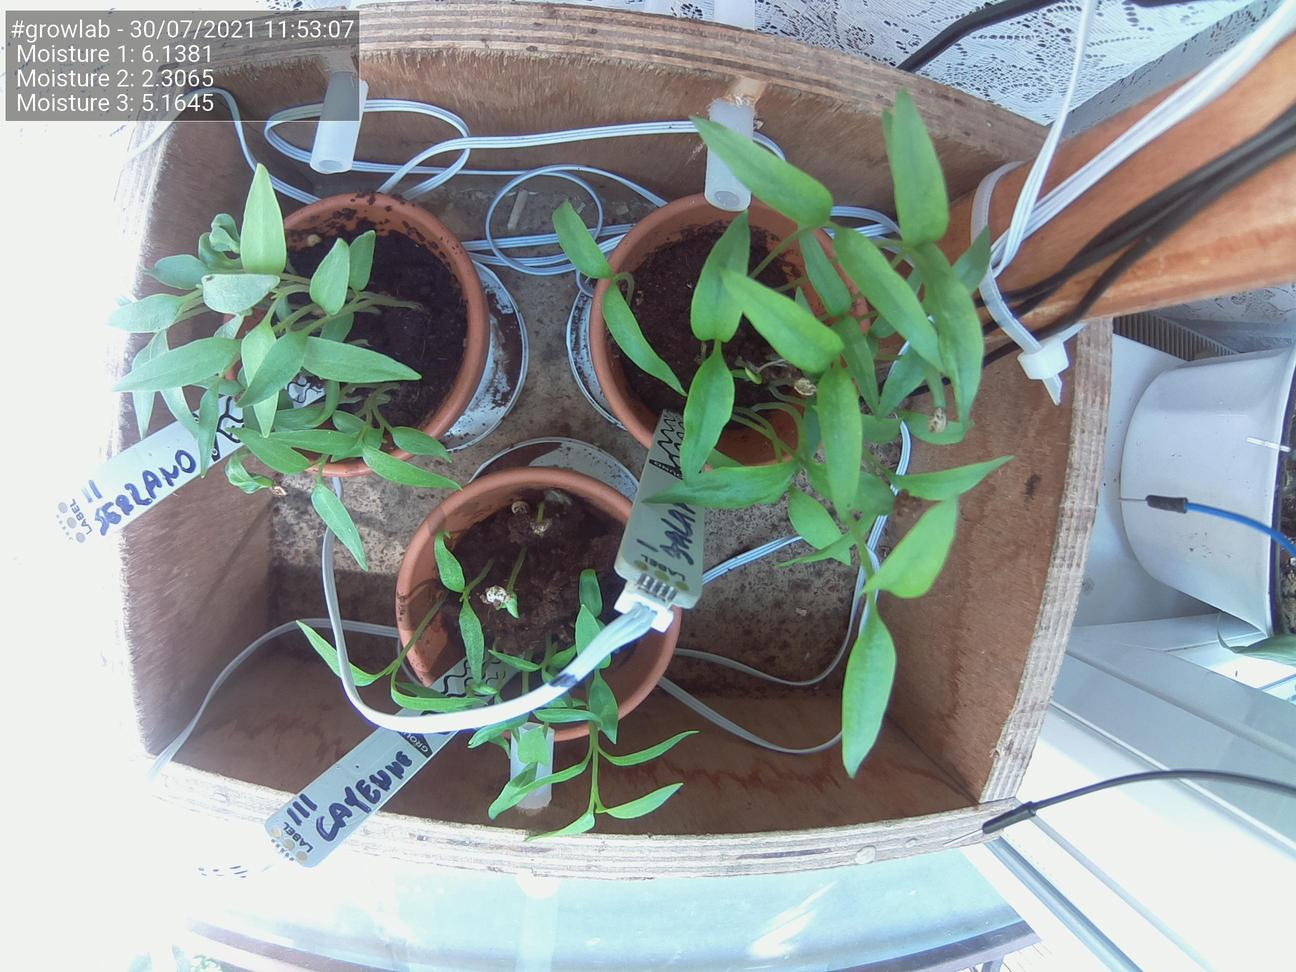
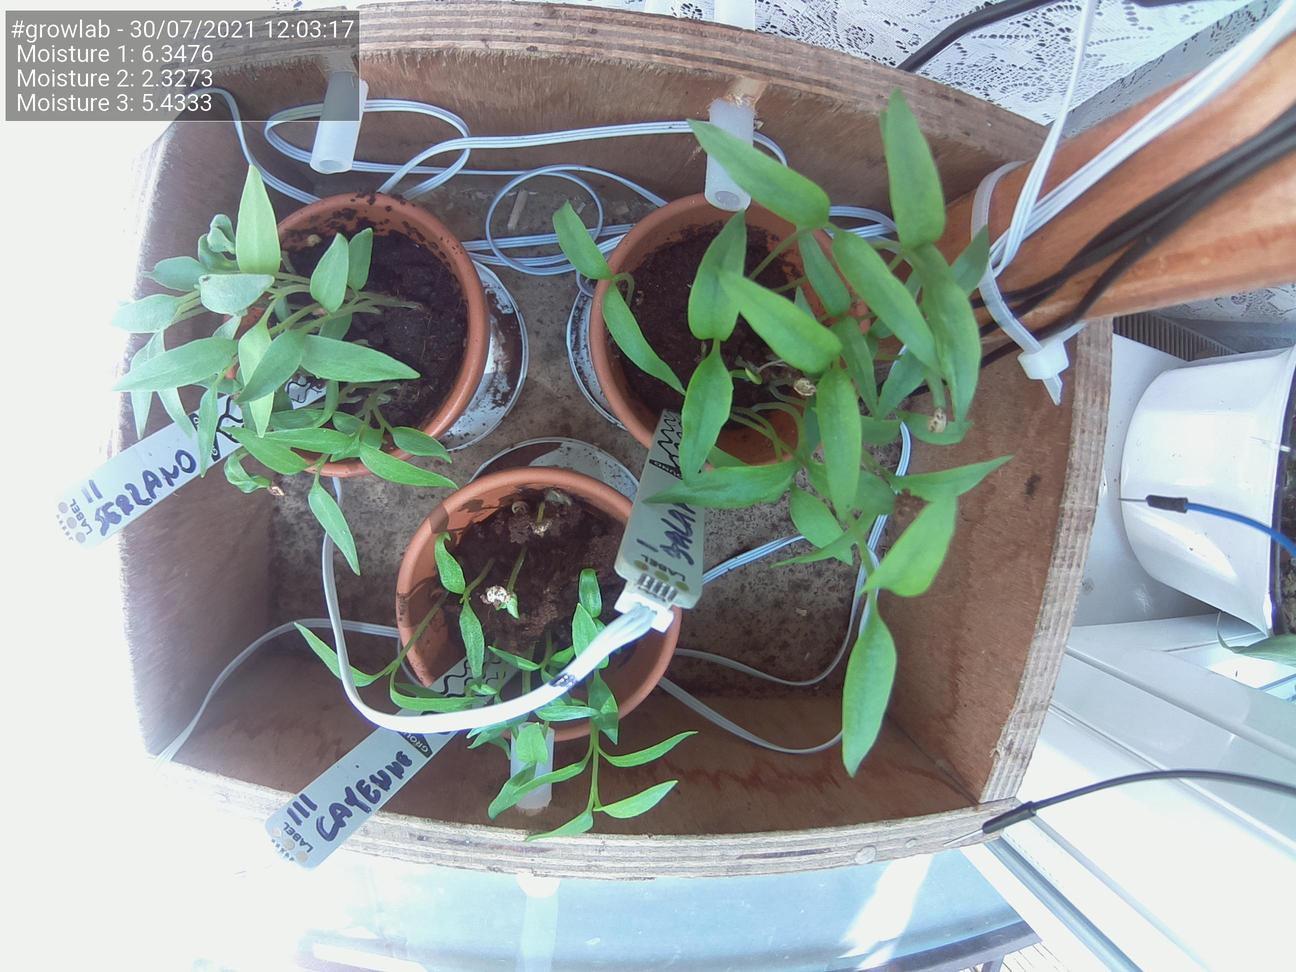
Update images at Fri 30 Jul 12:03:23 BST 2021

diff --git a/docs/index.html b/docs/index.html
@@ -51,25 +51,25 @@
                                 <td>Date</td>
                                 <td>30/07/2021</td>
                                 <td>Time</td>
-                                <td>11:53:07</td>
+                                <td>12:03:17</td>
                             </tr>
                             <tr>
                                 <td>Temperature</td>
                                 <td>N/A</td>
                                 <td>Moisture 1</td>
-                                <td>6.1381</td>
+                                <td>6.3476</td>
                             </tr>
                             <tr>
                                 <td>Humidity</td>
                                 <td>N/A</td>
                                 <td>Moisture 2</td>
-                                <td>2.3065</td>
+                                <td>2.3273</td>
                             </tr>
                             <tr>
                                 <td>Pressure</td>
                                 <td>N/A</td>
                                 <td>Moisture 3</td>
-                                <td>5.1645</td>
+                                <td>5.4333</td>
                             </tr>
                         </tbody>
                     </table>
@@ -77,7 +77,7 @@
 
                 <h5>Latest image</h5>
                 <div style="width: 85%;">
-                            <img class="figure-img img-fluid rounded" src="./preview.jpg?uid=1627642393.4871278">
+                            <img class="figure-img img-fluid rounded" src="./preview.jpg?uid=1627643003.4762206">
                 </div>
             </div>
         </div>
